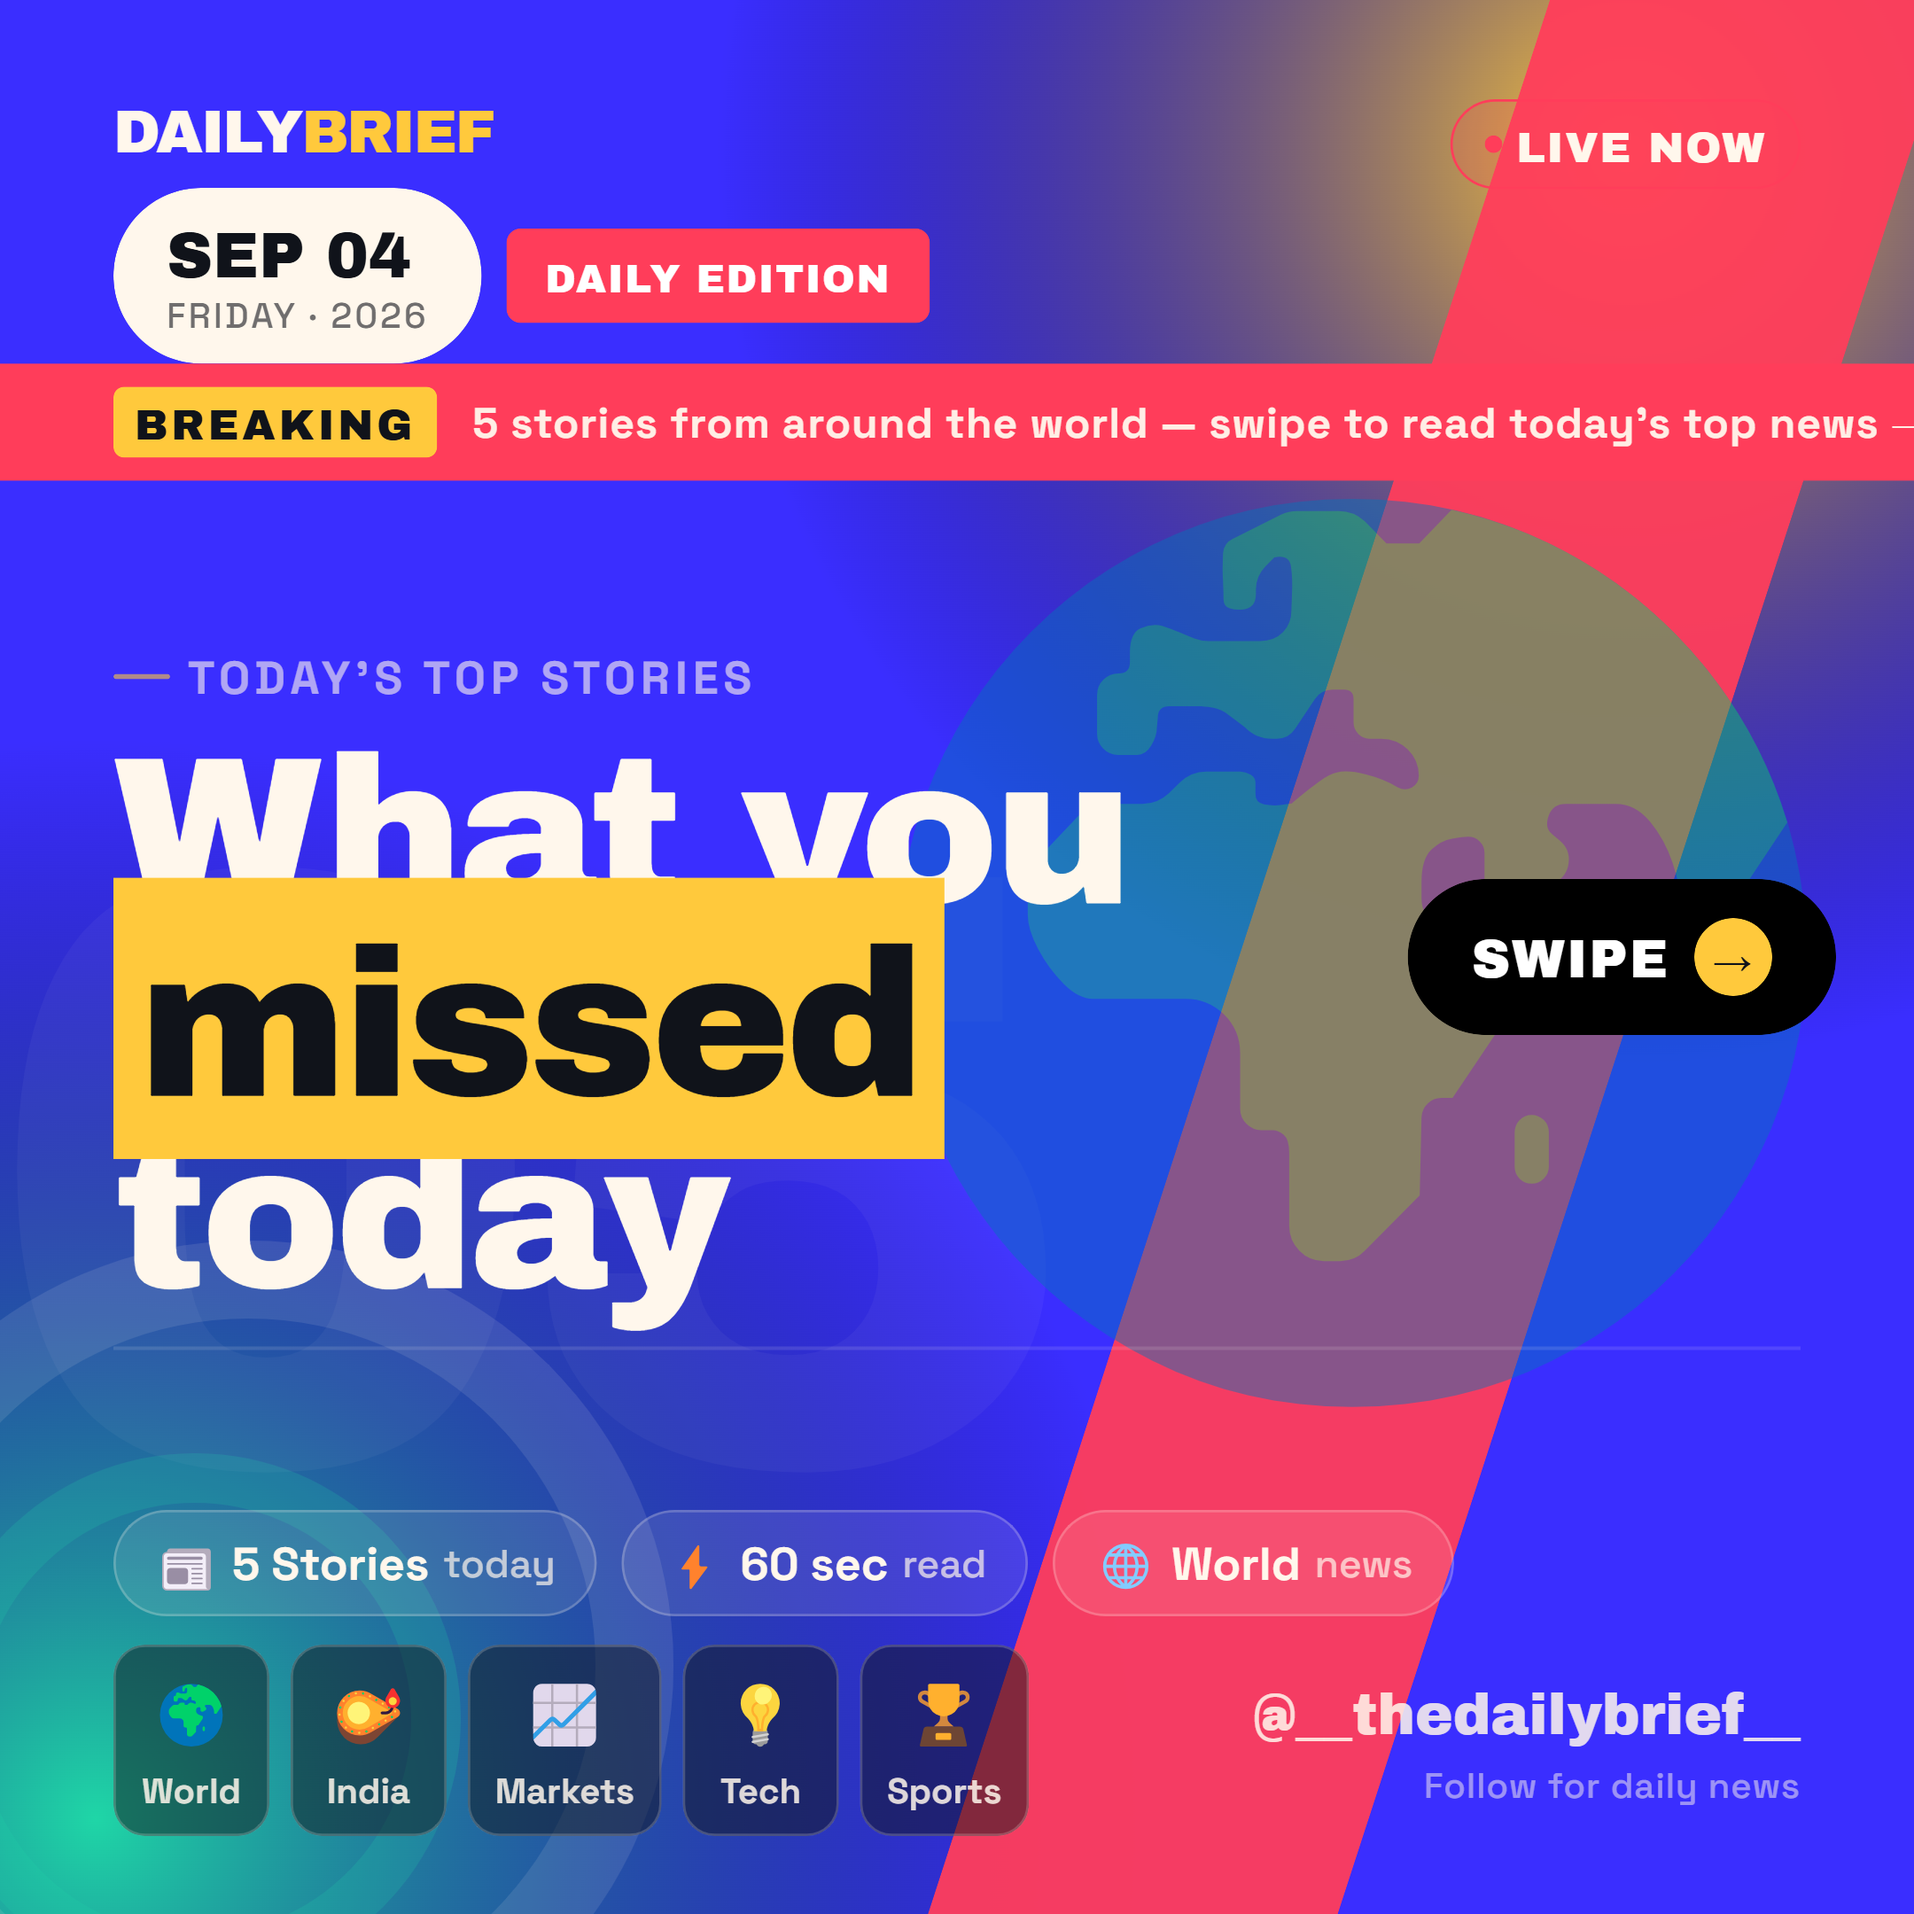
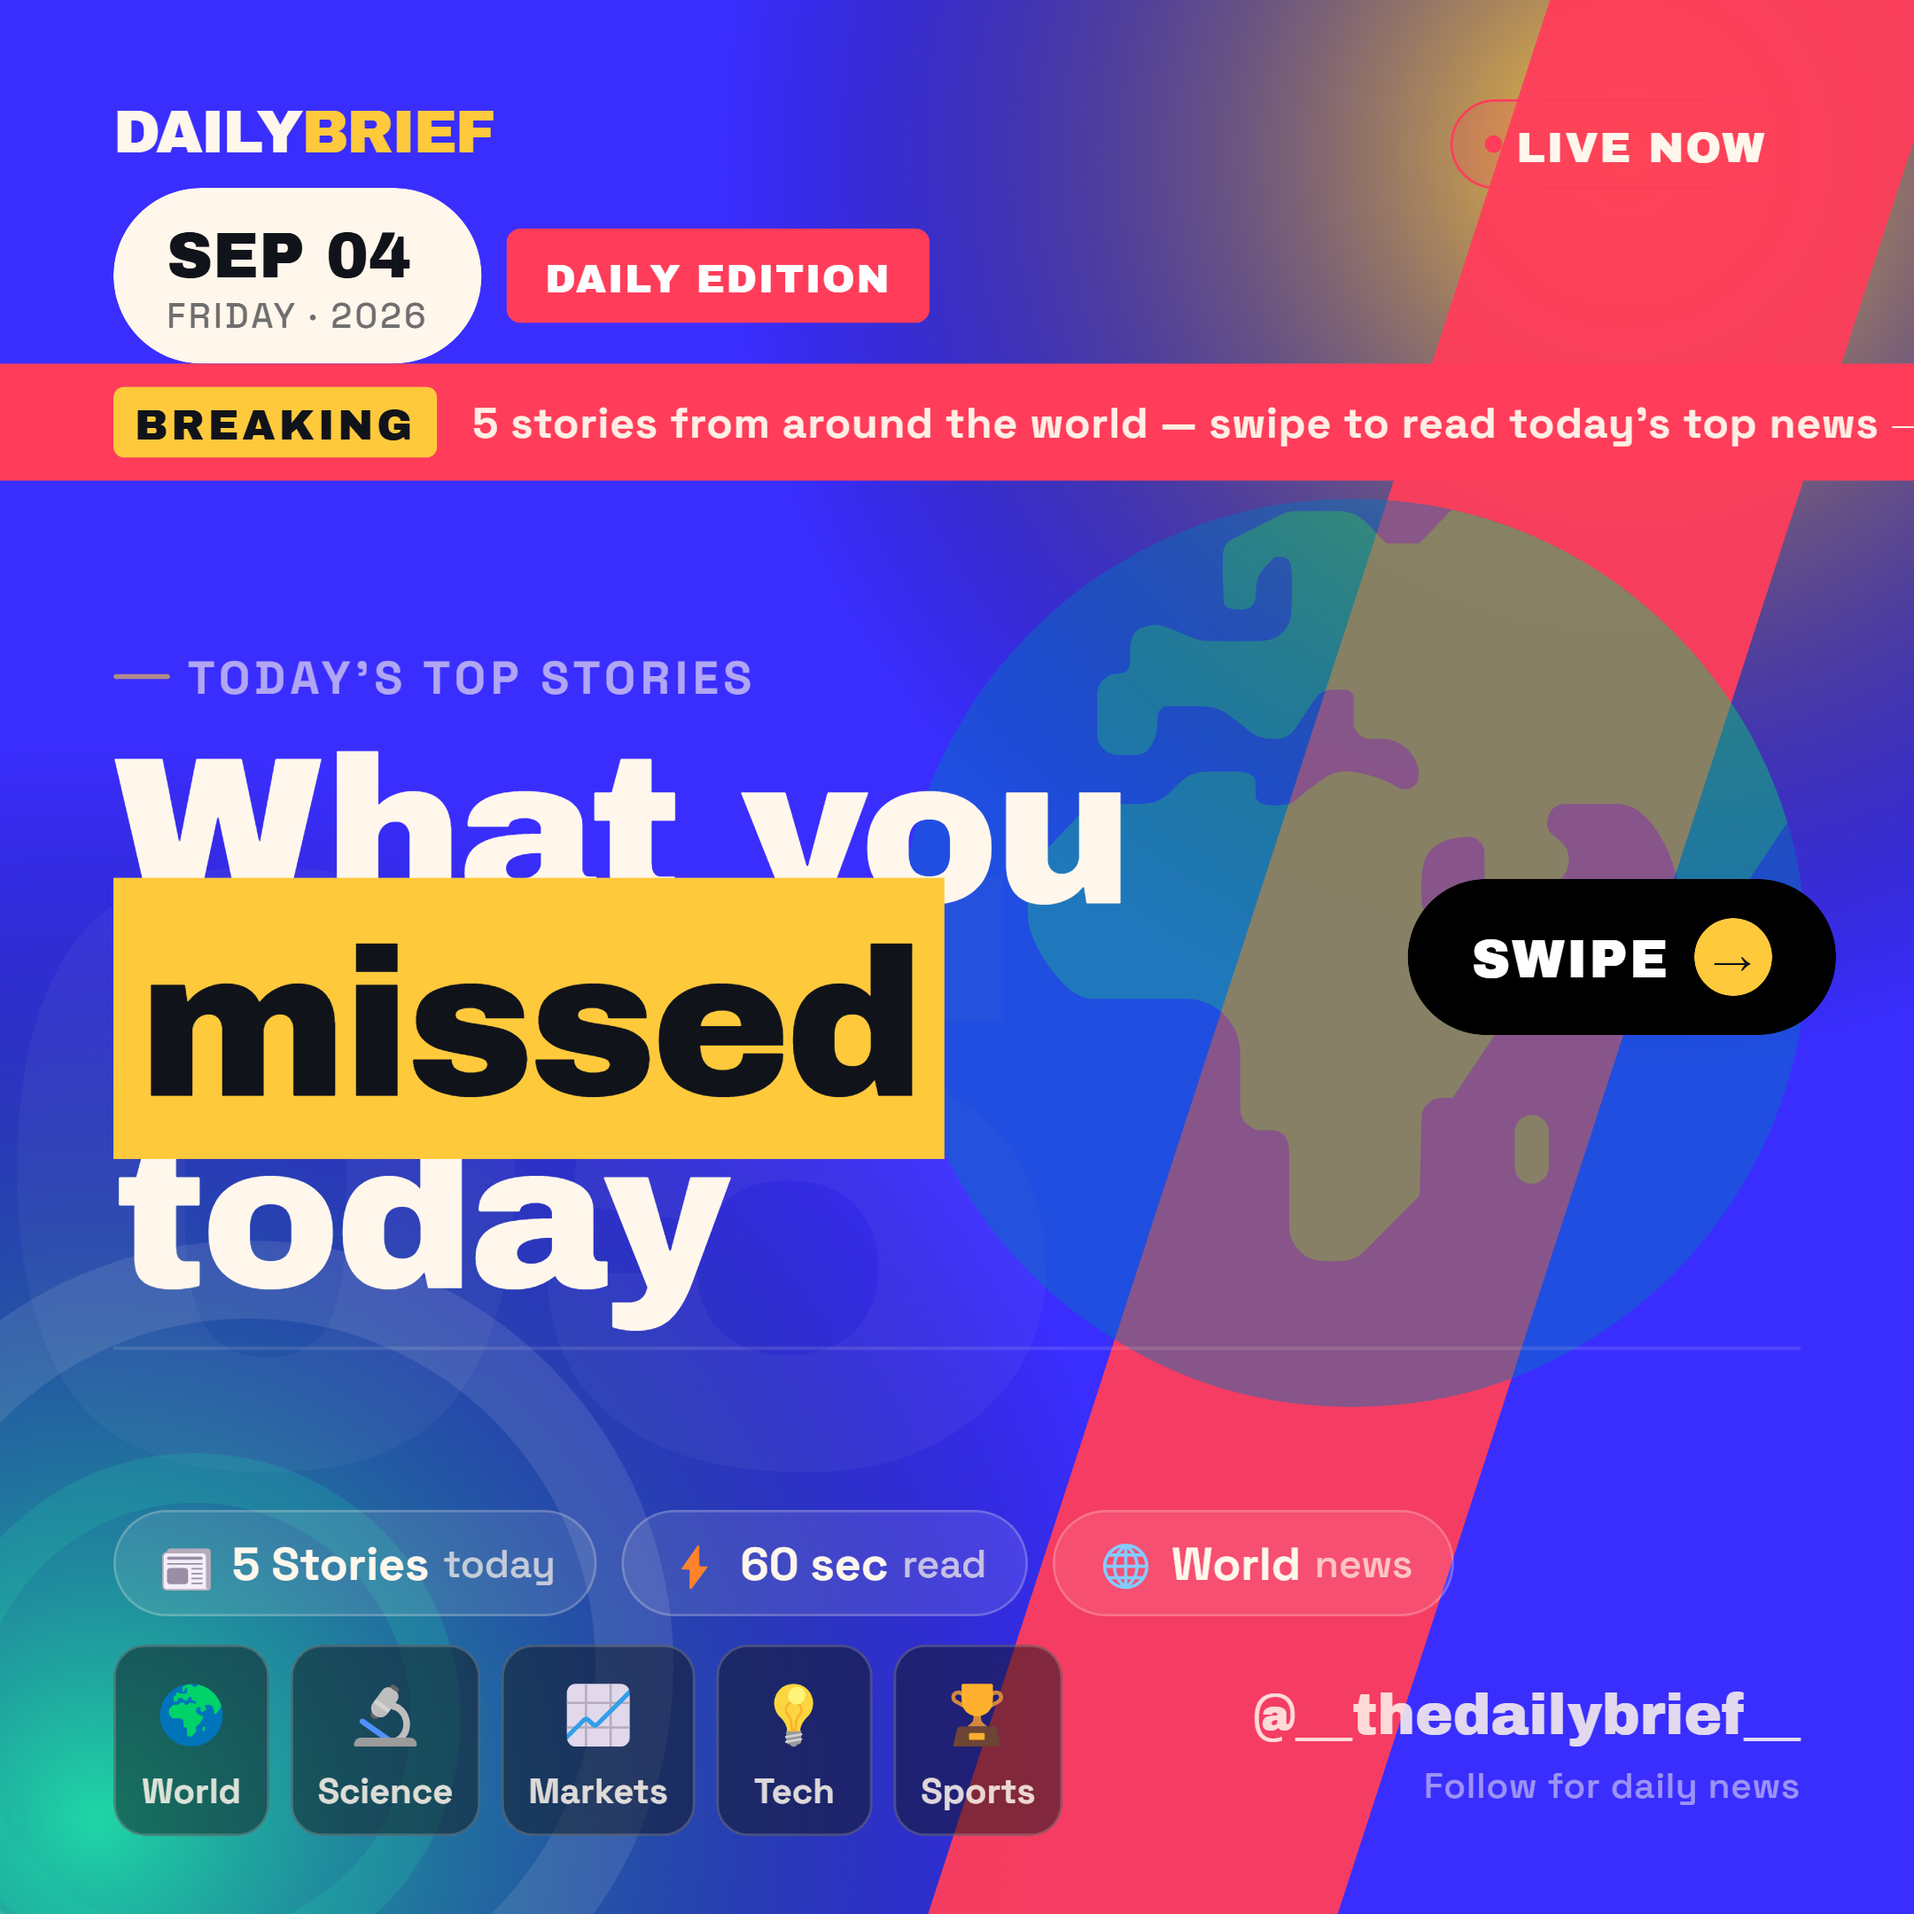
Swap India slot for Science, use dedicated ScienceDaily feed, fix mid-word bullet truncation

Changed region(s): [[0.1551, 0.8375, 0.5583, 0.9616]]

diff --git a/src/fetchNews.js b/src/fetchNews.js
@@ -9,7 +9,7 @@ const parser = new Parser({ timeout: 15000 });
 // One feed per carousel slot. Swap URLs any time - no API key required, these are public RSS feeds.
 const SLOTS = [
   { tag: 'World',   icon: '🌍', feed: 'http://feeds.bbci.co.uk/news/world/rss.xml' },
-  { tag: 'India',   icon: '🪔', feed: 'https://timesofindia.indiatimes.com/rssfeedstopstories.cms' },
+  { tag: 'Science', icon: '🔬', feed: 'https://www.sciencedaily.com/rss/top/science.xml' },
   { tag: 'Markets', icon: '📈', feed: 'http://feeds.bbci.co.uk/news/business/rss.xml' },
   { tag: 'Tech',    icon: '💡', feed: 'http://feeds.bbci.co.uk/news/technology/rss.xml' },
   { tag: 'Sports',  icon: '🏆', feed: 'http://feeds.bbci.co.uk/sport/rss.xml' },
@@ -46,7 +46,7 @@ function toBullets(description, title) {
     .map(s => s.trim())
     .filter(s => s.length > 12)
     .slice(0, 3)
-    .map(s => (s.length > 100 ? s.slice(0, 97).trimEnd() + '…' : s));
+    .map(s => (s.length > 100 ? s.slice(0, 100).replace(/\s+\S*$/, '').trimEnd() + '…' : s));
   return sentences.length ? sentences : [text.slice(0, 100)];
 }
 
